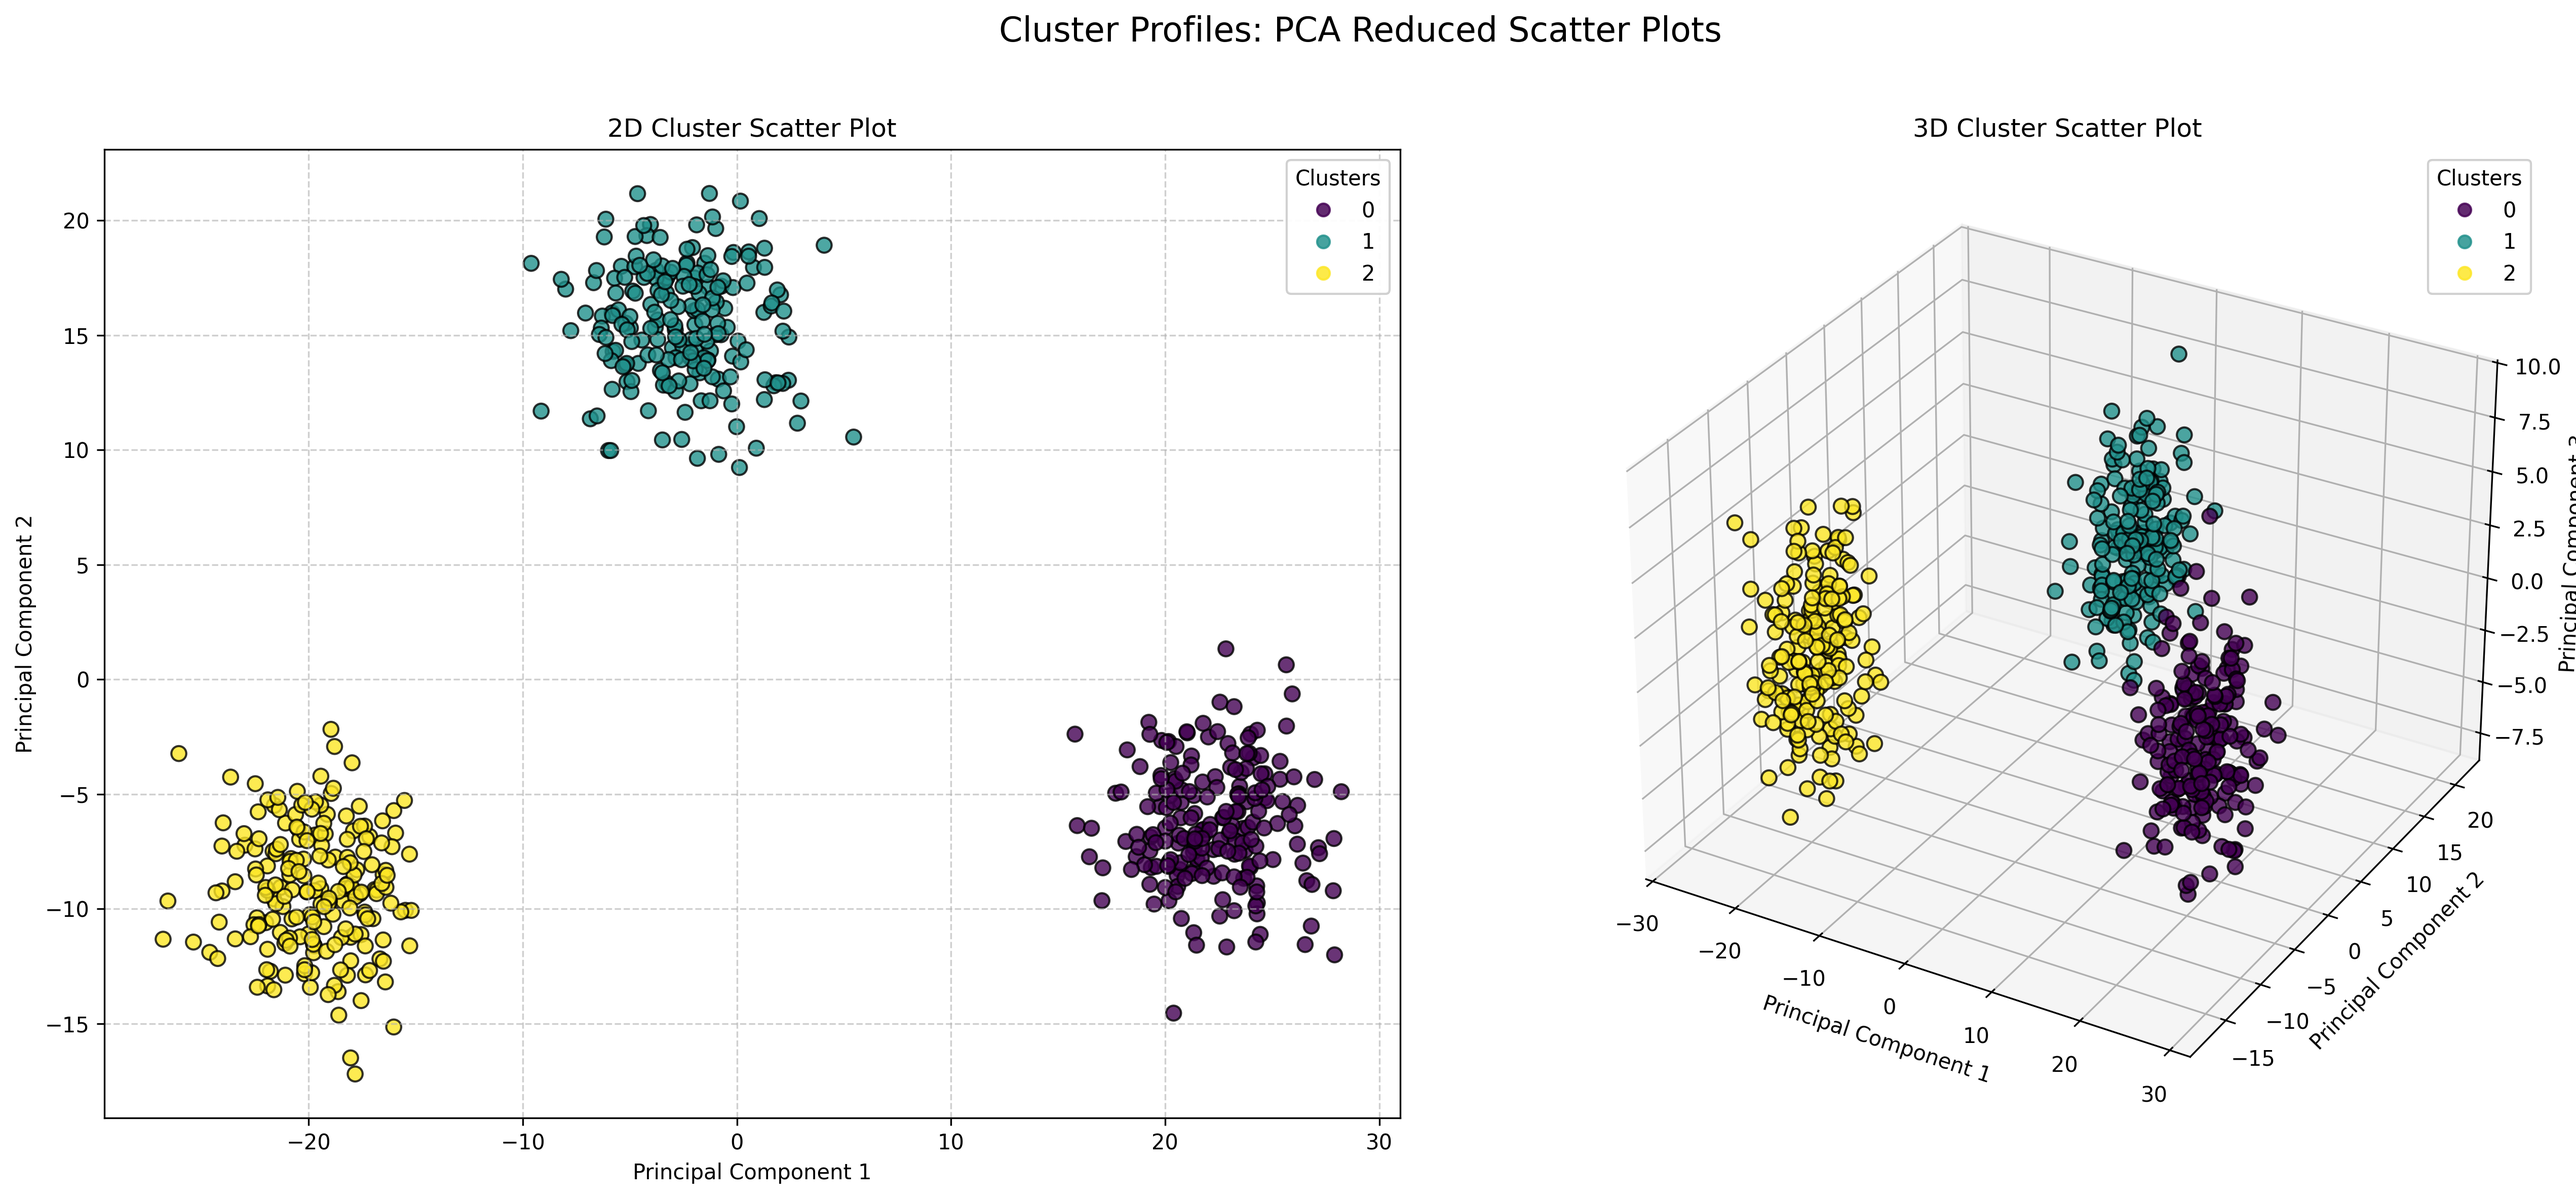
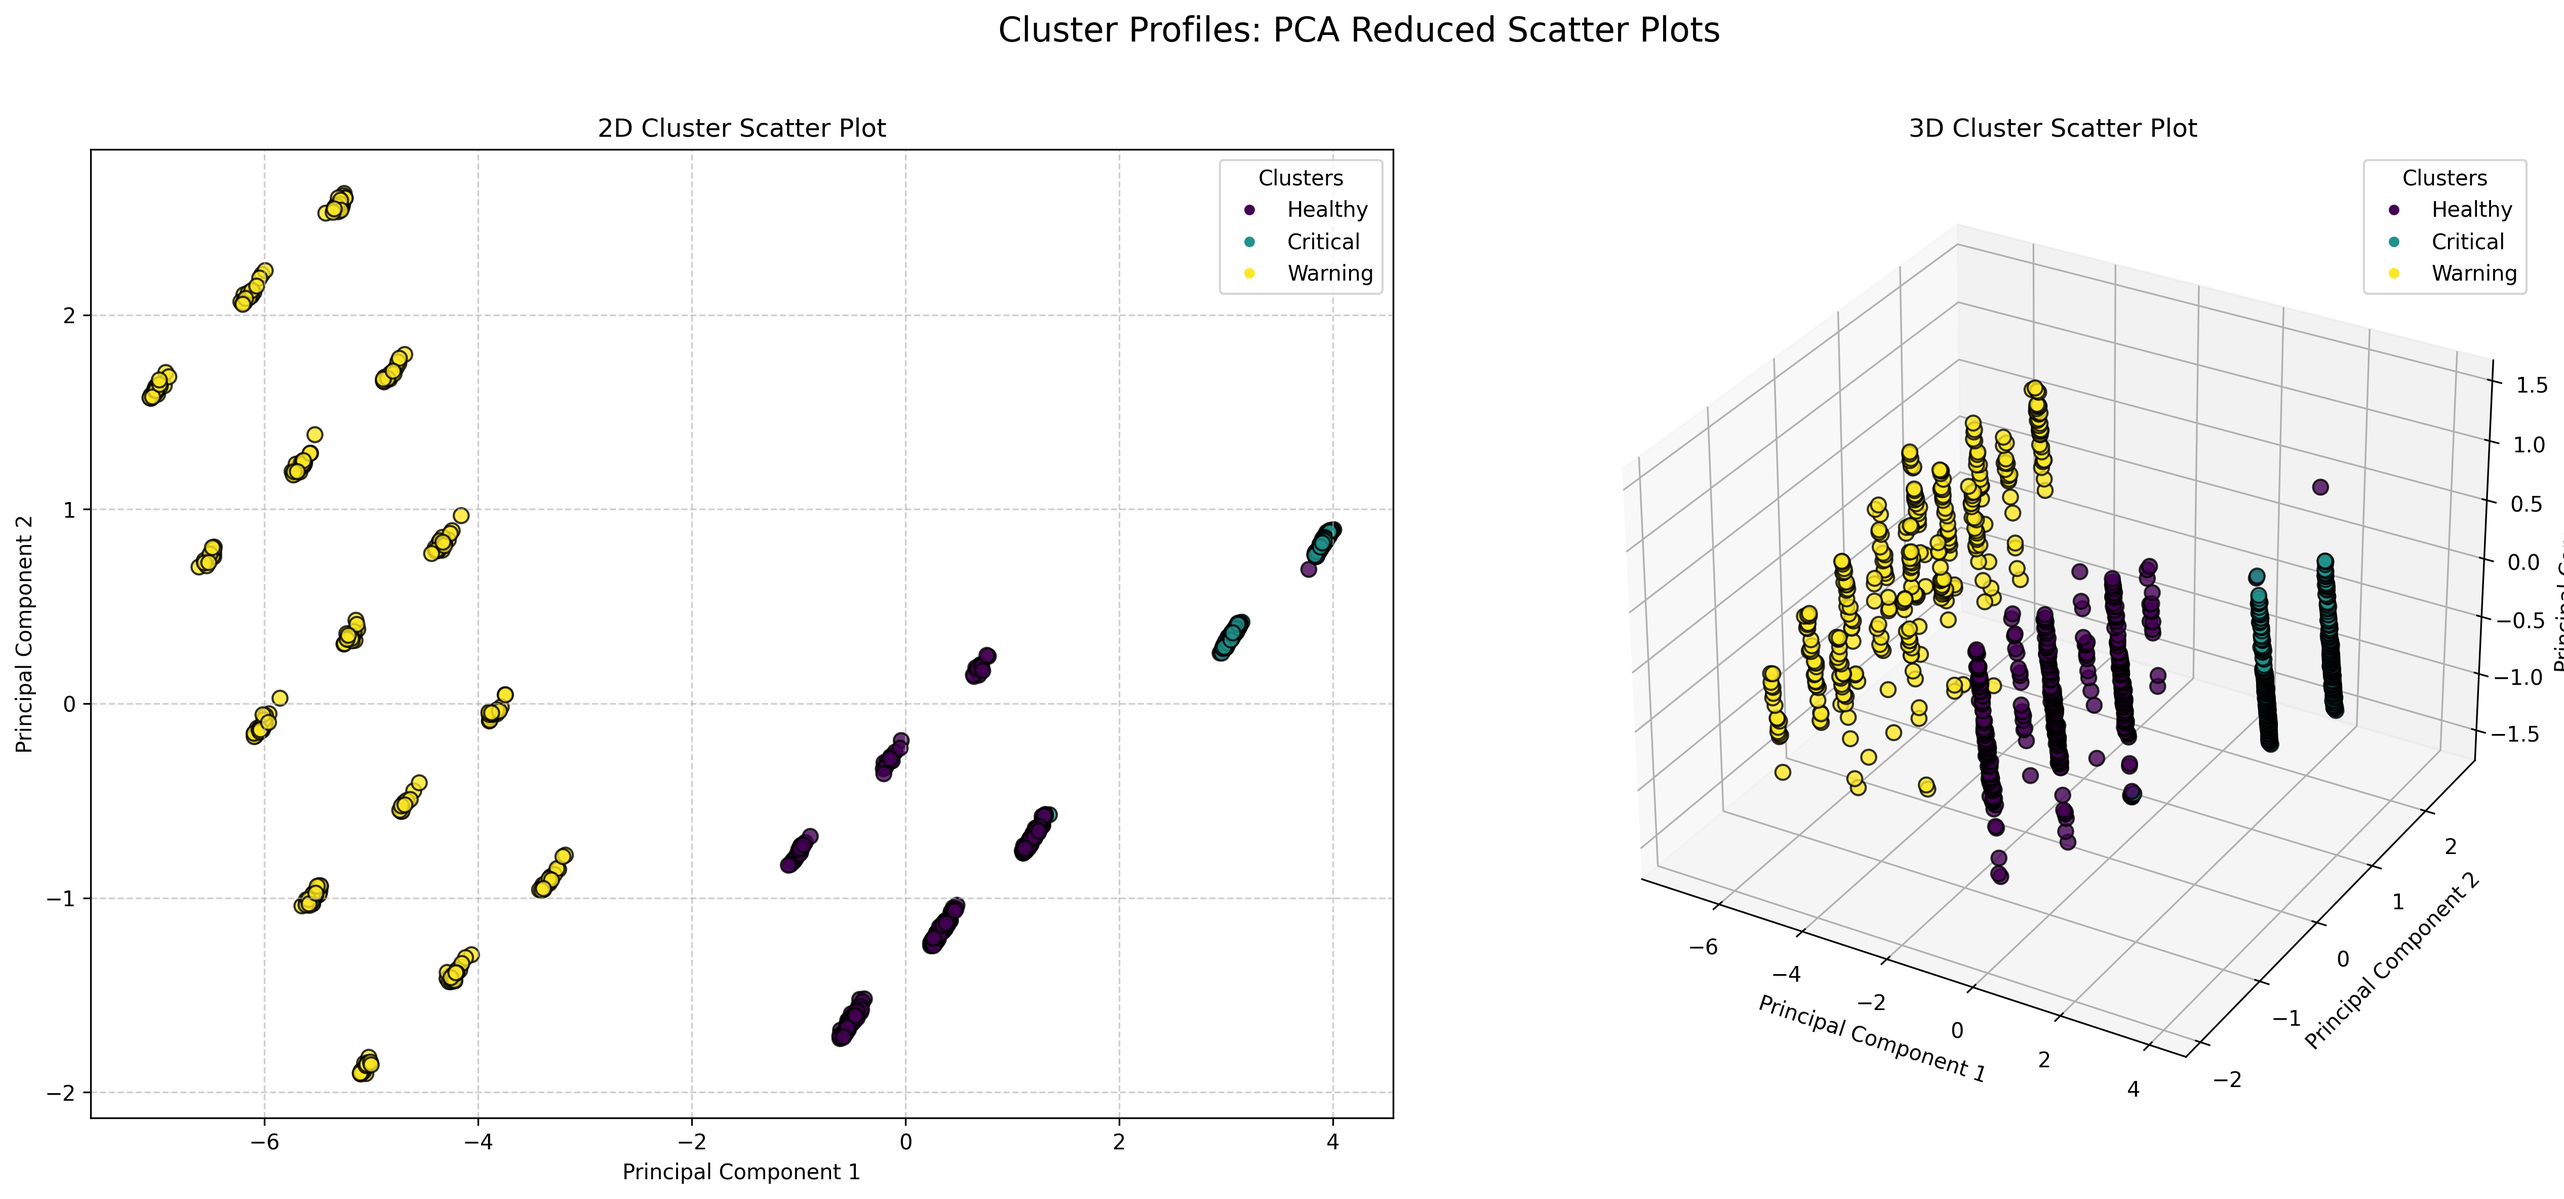
Minor Fixes - Implementedv4

diff --git a/backend/scripts/generate_cluster_plot.py b/backend/scripts/generate_cluster_plot.py
@@ -1,9 +1,11 @@
 import os
+import requests
+import numpy as np
 import matplotlib.pyplot as plt
 from sklearn.decomposition import PCA
-from sklearn.datasets import make_blobs
+import sys
 
-def plot_clusters(X, y, save_path):
+def plot_clusters(X: np.ndarray, y: np.ndarray, save_path: str, cluster_names: dict = None):
     """
     Reduces high-dimensional data using PCA and generates 2D/3D scatter plots.
     """
@@ -25,8 +27,6 @@ def plot_clusters(X, y, save_path):
     ax1.set_xlabel('Principal Component 1')
     ax1.set_ylabel('Principal Component 2')
     ax1.grid(True, linestyle='--', alpha=0.6)
-    legend1 = ax1.legend(*scatter1.legend_elements(), title="Clusters", loc="upper right")
-    ax1.add_artist(legend1)
 
     # --- 3D Plot ---
     ax2 = fig.add_subplot(1, 2, 2, projection='3d')
@@ -35,8 +35,20 @@ def plot_clusters(X, y, save_path):
     ax2.set_xlabel('Principal Component 1')
     ax2.set_ylabel('Principal Component 2')
     ax2.set_zlabel('Principal Component 3')
-    legend2 = ax2.legend(*scatter2.legend_elements(), title="Clusters", loc="upper right")
-    ax2.add_artist(legend2)
+
+    # --- Create Legends (after both plots are created) ---
+    if cluster_names:
+        # Create custom legend handles for a more descriptive legend
+        handles = [plt.Line2D([0], [0], marker='o', color='w', label=cluster_names.get(i, f"Cluster {i}"),
+                              markerfacecolor=scatter1.cmap(scatter1.norm(i))) for i in np.unique(y)]
+        ax1.legend(title="Clusters", handles=handles, loc="upper right")
+        ax2.legend(title="Clusters", handles=handles, loc="upper right")
+    else:
+        # Fallback to default numeric legends
+        legend1 = ax1.legend(*scatter1.legend_elements(), title="Clusters", loc="upper right")
+        ax1.add_artist(legend1)
+        legend2 = ax2.legend(*scatter2.legend_elements(), title="Clusters", loc="upper right")
+        ax2.add_artist(legend2)
 
     # Save and display
     plt.tight_layout(rect=[0, 0, 1, 0.96])
@@ -45,17 +57,56 @@ def plot_clusters(X, y, save_path):
     plt.show()
 
 if __name__ == "__main__":
-    # -------------------------------------------------------------------
-    # Note: Replace this mock data block with your actual Optiasset data
-    # X should be your feature matrix, y should be your cluster labels.
-    # -------------------------------------------------------------------
-    print("Generating synthetic cluster data for visualization...")
-    X_mock, y_mock = make_blobs(
-        n_samples=600, centers=3, n_features=15, random_state=42, cluster_std=2.5
-    )
-    
-    # Save the output image in the same directory as the script
-    script_dir = os.path.dirname(os.path.abspath(__file__))
-    output_file = os.path.join(script_dir, "cluster_visualization.png")
-    
-    plot_clusters(X_mock, y_mock, output_file)
+    # --- 1. Fetch Real Data from the Optiasset API ---
+    # This script now pulls live data from your running application.
+    # Ensure the FastAPI server is running before executing this script.
+    API_URL = "http://127.0.0.1:8000/api/system/cluster-data"
+    print(f"Attempting to fetch cluster data from {API_URL}...")
+
+    try:
+        response = requests.get(API_URL, timeout=10)
+        
+        # Handle graceful API errors (like 404 No Data) before checking raise_for_status
+        if not response.ok:
+            try:
+                error_msg = response.json().get("detail", response.reason)
+            except ValueError:
+                error_msg = response.reason
+            print(f"❌ API Error ({response.status_code}): {error_msg}")
+            sys.exit(1)
+            
+        response.raise_for_status()  # Raises an HTTPError for bad responses (4xx or 5xx)
+
+        data = response.json()
+        X_real = np.array(data['features'])
+        y_real = np.array(data['labels'])
+
+        if X_real.size == 0 or y_real.size == 0:
+            print("❌ Error: API returned empty data. Have you run a bulk diagnostic on your assets?")
+        else:
+            print(f"✅ Successfully fetched {len(y_real)} data points.")
+            print(f"Feature matrix shape: {X_real.shape}")
+
+            # --- 2. Define Output Path ---
+            script_dir = os.path.dirname(os.path.abspath(__file__))
+            output_file = os.path.join(script_dir, "cluster_visualization.png")
+
+            # --- 3. Generate and Save Plot ---
+            # Map the cluster IDs from the data to the meaningful names from your documentation
+            # for a publication-quality graphic.
+            cluster_name_map = {
+                0: "Healthy",
+                1: "Critical",
+                2: "Warning"
+            }
+            # Note: Double-check this mapping against your cluster centroid analysis.
+            # The colors in the plot will now correspond to these names.
+
+            plot_clusters(X_real, y_real, output_file, cluster_names=cluster_name_map)
+
+    except requests.exceptions.RequestException as e:
+        print(f"❌ Error: Could not connect to the API at {API_URL}.")
+        print("Please ensure the Optiasset backend server is running and accessible.")
+        print(f"Details: {e}")
+    except Exception as e:
+        print(f"An unexpected error occurred: {e}")

diff --git a/backend/app/api/system.py b/backend/app/api/system.py
@@ -1,8 +1,8 @@
 from fastapi import APIRouter, Depends, HTTPException
 from sqlalchemy.orm import Session
 from app.db.session import get_db
-from app.models.schemas import Asset, SystemLog, SystemSettings
-from app.schemas.system import SystemSettingsUpdate, SystemSettingsResponse
+from app.models.schemas import Asset, SystemLog, SystemSettings, Spec
+from app.schemas.system import SystemSettingsUpdate, SystemSettingsResponse, ClusterDataResponse
 from app.core.engine import engine
 
 router = APIRouter(prefix="/system", tags=["System Operations"])
@@ -59,3 +59,69 @@ def update_system_settings(settings_in: SystemSettingsUpdate, db: Session = Depe
     db.commit()
     db.refresh(settings)
     return settings
+
+@router.get("/cluster-data", response_model=ClusterDataResponse)
+def get_cluster_data_for_visualization(db: Session = Depends(get_db)):
+    """
+    Exports the feature vectors and cluster assignments for all active assets.
+    This data is used to generate the PCA visualization plot for documentation.
+    """
+    # 1. Fetch all active assets that have been clustered
+    assets = db.query(Asset).filter(
+        Asset.is_active == True,
+        Asset.cluster_id != None
+    ).all()
+
+    if not assets:
+        raise HTTPException(status_code=404, detail="No clustered asset data found. Run a bulk diagnostic first.")
+
+    # --- Performance Improvement: Avoid N+1 queries ---
+    # 2. Get all unique model names from the assets
+    asset_model_names = {asset.model_name for asset in assets}
+    
+    # 3. Fetch all required specs in a single query, including generics
+    required_specs = db.query(Spec).filter(
+        Spec.model_name.in_(list(asset_model_names) + ["Generic Laptop", "Generic Desktop"])
+    ).all()
+    
+    # 4. Create a lookup map for fast access
+    specs_map = {spec.model_name: spec for spec in required_specs}
+    generic_laptop_spec = specs_map.get("Generic Laptop")
+    generic_desktop_spec = specs_map.get("Generic Desktop")
+    # --- End Improvement ---
+
+    features_list = []
+    labels_list = []
+
+    # 5. Re-create the feature vectors and collect labels using the specs map
+    for asset in assets:
+        spec = specs_map.get(asset.model_name)
+        if not spec:
+            # Use the same fallback logic as the diagnostic endpoints
+            if asset.device_type and "laptop" in asset.device_type.lower():
+                spec = generic_laptop_spec
+            elif asset.device_type and "desktop" in asset.device_type.lower():
+                spec = generic_desktop_spec
+            
+            if not spec:
+                # This asset cannot be processed, log it or skip it
+                # For this script, skipping is fine.
+                continue 
+
+        features = engine.prepare_features(asset, spec)
+
+        # Convert NumPy array to a standard Python list
+        feat_list = features.tolist() if hasattr(features, 'tolist') else list(features)
+        # ML engines often return 2D arrays for single samples (e.g., [[1.5, 2.5, ...]])
+        # We need to extract the inner list to match our List[List[float]] schema
+        if len(feat_list) == 1 and isinstance(feat_list[0], list):
+            feat_list = feat_list[0]
+
+        features_list.append(feat_list)
+        labels_list.append(asset.cluster_id)
+
+    if not features_list:
+        # This can happen if all assets with cluster_id couldn't find a spec
+        raise HTTPException(status_code=404, detail="Found clustered assets, but could not find matching specs to generate features.")
+
+    return {"features": features_list, "labels": labels_list}

diff --git a/backend/app/schemas/system.py b/backend/app/schemas/system.py
@@ -1,4 +1,5 @@
 from pydantic import BaseModel
+from typing import List
 
 class SystemSettingsBase(BaseModel):
     warning_multiplier: float
@@ -11,5 +12,11 @@ class SystemSettingsUpdate(SystemSettingsBase):
 
 class SystemSettingsResponse(SystemSettingsBase):
     id: int
+    class Config:
+        from_attributes = True
+
+class ClusterDataResponse(BaseModel):
+    features: List[List[float]]
+    labels: List[int]
     class Config:
         from_attributes = True
